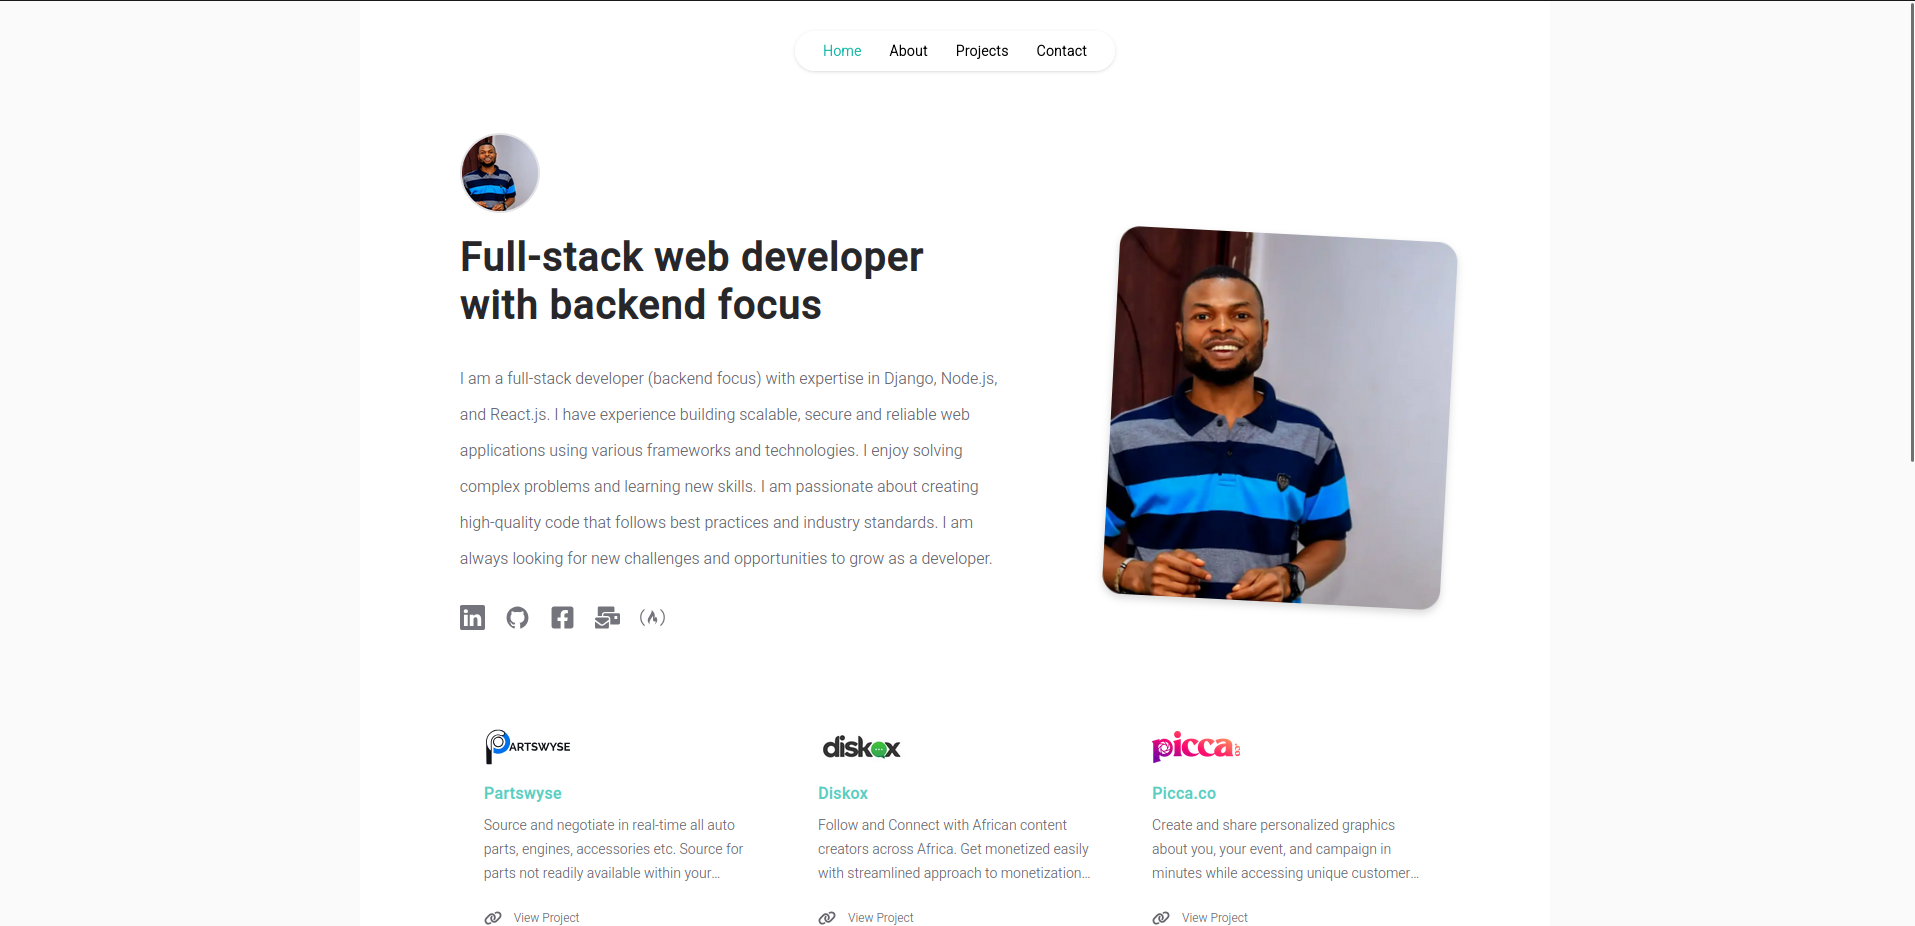
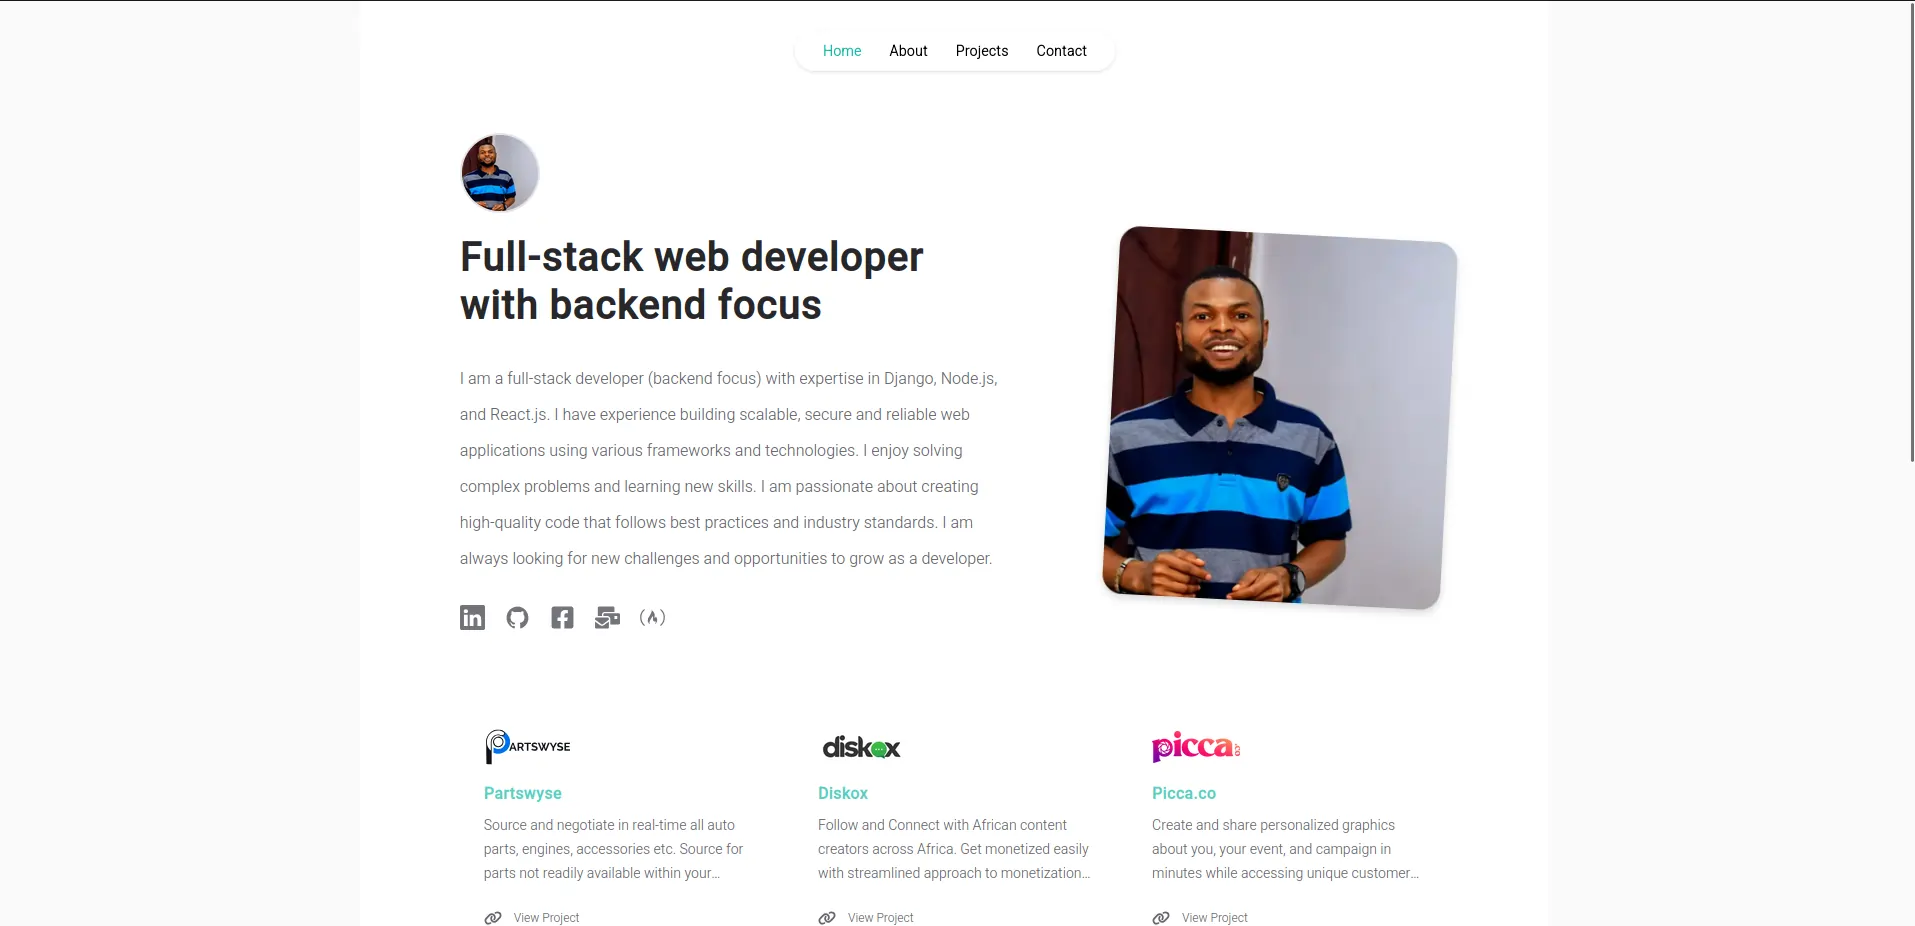
Compress opengraph preview img

diff --git a/src/pages/Home.jsx b/src/pages/Home.jsx
@@ -53,7 +53,7 @@ export default function Home() {
                 </div>
 
                 {/* tech stack and experience */}
-                <div className="flex flex-col xl:flex-row items-center xl:justify-between gap-y-8 xl:gap-y-0 lg:gap-x-10 my-15 sm:px-3 lg:px-0">
+                {/* <div className="flex flex-col xl:flex-row items-center xl:justify-between gap-y-8 xl:gap-y-0 lg:gap-x-10 my-15 sm:px-3 lg:px-0">
                     <div className="w-full xl:w-[48%] space-y-5 border-l-2 border-l-link pl-4">
                         <h2 className="flex items-center gap-x-5 text-link font-primary"><FaTools /> Technical Skills</h2>
                         <div className="">
@@ -86,7 +86,6 @@ export default function Home() {
                                 <li className="flex items-center gap-x-2 border-b border-b-quaternary pb-2">
                                     <h3 className="font-bold">Other tools:</h3>
                                     <p>WebSockets, AI Analytics</p>
-                                    {/* <p className="text-xs">Redis, WebSockets, Nginx, Celery, AI Analytics</p> */}
                                 </li>
                             </ul>
 
@@ -116,7 +115,7 @@ export default function Home() {
                             </div>
                         </div>)}
                     </div>
-                </div>
+                </div> */}
 
             </div>
         </Layout>

diff --git a/src/pages/Projects.jsx b/src/pages/Projects.jsx
@@ -14,10 +14,10 @@ export default function Projects() {
             <HeroSection />
             <section className="lg:w-[75%] space-y-8 mt-8">
                 <h1 className="font-[700] text-[40px] leading-12 text-primary font-secondary">
-                    Things I’ve made trying to put my skills to use in providing solution.
+                    Projects Showcasing My Skills in Building Solutions
                 </h1>
                 <p className="leading-7 font-medium font-primary text-secondary text-md">
-                    I've worked on a variety of projects over the years and I'm proud of the progress I've made. Many of these projects are live and available for others to use and explore. Please feel free to check them out on the projects page and I would like some feedback or suggestion for any improvements or enhancements you might have in mind. Collaborating with others is a great way to learn and grow, and I'm always open to new ideas and feedback.
+                    I take pride in the projects I’ve developed, many of which are live. Explore them and let me know if you have any thoughts on how they can be improved!
                 </p>
             </section>
 

diff --git a/src/pages/About.jsx b/src/pages/About.jsx
@@ -15,7 +15,7 @@ export default function About() {
                 {/* Section description */}
                 <section className="lg:w-[65%] lg:pr-24 space-y-8">
                     <h1 className="font-[700] text-[40px] leading-12 text-primary font-secondary">
-                        I'm Ifeanyi Nworji, I live in Nigeria where I help companies build the future.
+                        Hi, I'm Ifeanyi Nworji. I build modern, scalable web solutions that drive the future.
                     </h1>
                     <p className="leading-9 font-medium font-primary text-secondary text-md">
                         I've worked on a variety of projects over the years and I'm proud of the progress I've made. Many of these projects are live and available for others to use and explore. Please feel free to check them out on the projects page and I would like some feedback or suggestion for any improvements or enhancements you might have in mind. Collaborating with others is a great way to learn and grow, and I'm always open to new ideas and feedback.

diff --git a/src/pages/Contact.jsx b/src/pages/Contact.jsx
@@ -13,7 +13,7 @@ export default function Contact() {
             <HeroSection />
             <section className="space-y-8 mt-12">
                 <h1 className="lg:w-[75%] font-[700] text-[45px] leading-12 text-primary font-secondary">
-                    Let's Get in Touch: Ways to Connect with Me
+                    Connect with Me
                 </h1>
                 <p className="leading-9 font-medium font-primary text-secondary text-md">
                     Thank you for your interest in getting in touch with me. I welcome your feedback, questions, and suggestions. If you have a specific question or comment, please feel free to email me directly at
